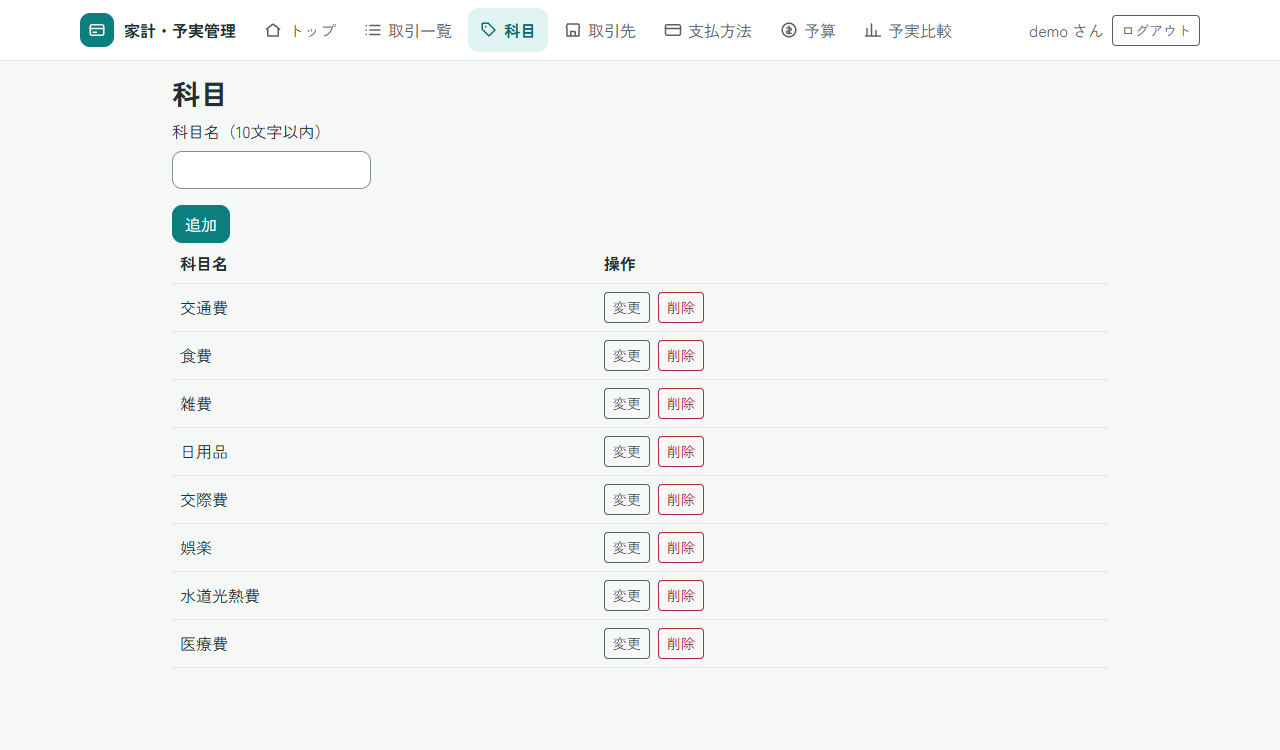
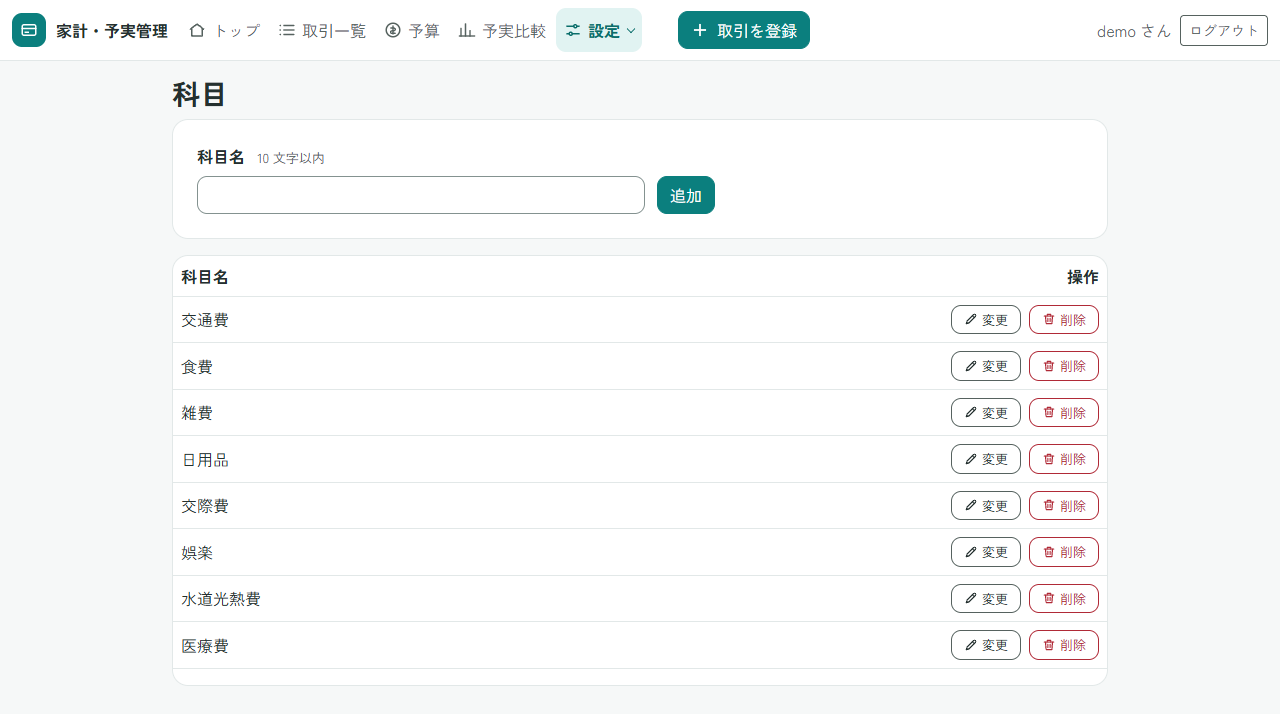
README の画像 9 枚と動画を v1.15.0 の画面で撮り直し、説明の文を今の画面に合わせる

diff --git a/docs/plans/docs-screenshots-v1.15.md b/docs/plans/docs-screenshots-v1.15.md
@@ -1,0 +1,231 @@
+# README の画面の画像とデモ動画の撮り直し（v1.15.0 の画面に合わせる）
+
+全体の位置づけは [実行計画書](execution-plan.md) を見てください。この文書は、README の**画面の画像 9 枚**と**デモ動画（自動予算）**を、`v1.15.0`〔issue 029 まで〕の画面に合わせて撮り直し、README の文を今の画面に合わせるための手順書です。前回は [docs-screenshots-v1.6.md](docs-screenshots-v1.6.md)〔v1.6.0。8 枚と、取引を登録する動画〕。**この作業は文書と画像だけで、アプリのコードは変えません。**
+
+> **⚠ 大事：今週のデータは、2026年11月21日（土）までしか「今週」に入りません。**
+> 5 章で足す 6 件は、トップの「今週」〔2026年11月15日（日）〜11月21日（土）〕にだけ効きます。**11月22日（日）になると「今週」は次の週になり、トップの円グラフ・今週の進み具合・グラフへのひとことが空になります**〔「今週はまだ使っていません」〕。**トップの画像〔`02-top.png`〕と動画は、11月21日までに撮ります。** それより後に撮るときは、その週の日付で 6 件を足し直します〔5.4〕。
+
+> **状態（2026年11月16日）**：◐ **8 章の手順 ①〜⑧ が済んだ**〔画像 9 枚・動画を撮り直し、README を直した〕。残りは、コミット・push・PR・`main` への取り込み〔本人〕と、9 章の「秘密情報が GitHub 上にない」の確認。
+
+- 前の作業：[issue 029](../issues/029-使い勝手の直し.md)〔`v1.15.0`。ヘッダーのメニュー 5 つ・「設定」・「予算」・「取引を登録」〕。そのほか、前回の画像〔11/9・11/12〕のあとに、issue 024〔チップ、要約カード〕・025〔取引一覧の月ごとの見出しと行のボタン、詳細ページをなくした〕・021〔お知らせ〕・028〔グラフへのひとこと〕で見た目が変わった。
+- 作業ブランチ：`docs/screenshots-v1.15`
+- **やらないこと**：アプリのコード・テストの変更。画像・動画を撮ること〔撮るのは本人〕。タグ付け。
+- 秘密情報：パスワード・接続先の値は、どこにも書かない。**パスワードの入力は、画像にも動画にも写さない**。
+- 書き分け：**「計算。画面で確かめる」**と書いた数字は、手順書を書いたときに、データの表から手で計算した見込み〔DB は見ていない〕。撮る前に、画面の数字と比べる。
+
+**あなたの決定（2026年11月16日）**
+
+| 番号 | 決まったこと |
+|---|---|
+| 1 | 今週の取引は 6 科目 6 件〔5.1 の表〕。交際費の摘要は「差し入れ」〔取引先がコンビニなので〕 |
+| 2 | 2026 年冬の予算は、**A：画面で 8 科目すべて 0 円にして保存**〔SQL は使わない〕 |
+| 3 | 今の動画の台本は文書になかったので、この手順書に書き起こす〔4 章〕 |
+| 4 | 手順書の名前は `docs-screenshots-v1.15.md`〔この文書〕 |
+
+## 1. README に今入っている画像（9 枚）と動画
+
+置き場所は、すべて `docs/images/`〔PNG。`.gitattributes` で `docs/images/*.png binary`〕。
+
+| # | ファイル名 | 大きさ〔幅 × 高さ、KB〕 | 撮った日 | README の場所 |
+|---|---|---|---|---|
+| 1 | `01-login.png` | 1440 × 900、109 KB | 2026年11月12日 | 「画面の紹介」の**ログイン**〔63 行目〕 |
+| 2 | `02-top.png` | 1440 × 1232、293 KB | 2026年11月12日 | 「画面の紹介」の先頭〔54 行目〕 |
+| 3 | `03-transactions.png` | 1280 × 900、200 KB | 2026年11月9日 | **取引一覧**〔67 行目〕 |
+| 4 | `04-transaction-error.png` | 1280 × 750、121 KB | 2026年11月9日 | **取引の登録（入力エラー）**〔71 行目〕 |
+| 5 | `05-categories.png` | 1280 × 750、77 KB | 2026年11月9日 | **科目**〔77 行目〕 |
+| 6 | `06-budgets.png` | 1440 × 1200、118 KB | 2026年11月12日 | **予算設定**〔81 行目〕 |
+| 7 | `07-comparison.png` | 1440 × 1200、207 KB | 2026年11月12日 | 「目玉の機能」の**着地見込み**〔39 行目〕 |
+| 8 | `08-comparison-unset.png` | 1280 × 780、101 KB | 2026年11月9日 | **予実比較（予算が未設定の季節）**〔85 行目〕 |
+| 9 | `09-auto-budget.png` | 1440 × 1200、231 KB | 2026年11月12日 | 「目玉の機能」の**自動予算**〔29 行目〕 |
+
+- README での表示は、9 枚とも `width="640"`。
+- **幅が 1440 と 1280 で分かれている**〔11/12 に撮った 5 枚が 1440、11/9 の 4 枚が 1280〕。今回は、**9 枚とも 1280 にそろえる**〔7 章の Q115-1〕。
+- **動画**：README の 9 行目〔GitHub にアップロードした動画の URL。リポジトリの中にファイルはない〕と、11 行目の説明「デモ動画（約 35 秒）：トップから予算設定に移り、2026 年冬で「自動予算」の「1. これで OK」を押して保存します。そのあと、予実比較で今の季節（秋）の見込みを見ます。」。2026年11月12日に README に入れた〔コミット `a182dc5`〕。
+- **動画の台本と撮り直しの記録は、文書になかった**〔`a182dc5` で変わったのは README と画像だけ。計画は [issue-019-auto-budget.md](issue-019-auto-budget.md) 11 章の「自動予算の動画〔約 30 秒〕」の 1 行だけ〕。4 章に、README の 11 行目から書き起こした。
+
+## 2. 1 枚ごとの撮り方
+
+どれも **`demo` でログイン**した状態〔ログイン画面だけ、ログアウトした状態〕。データは、5 章の 6 件を足したあと。撮る日は **11月16日〜21日**〔先頭の注意〕。
+
+| # | ファイル | 撮り直す理由（ヘッダーのほか） | URL・データ・操作 |
+|---|---|---|---|
+| 1 | `01-login.png` | ヘッダーは変わっていない〔ロゴだけ。`fragments/public-header.html`〕。025 で、上の空き、チェックの 1 つ目、チップを入れた説明の文が変わった〔`fragments/auth-intro.html` 14〜18 行〕 | `/login` を直接開く。欄は空。メッセージなし |
+| 2 | `02-top.png` | 024〔チップ、カード〕、021〔凡例の言葉〕、028〔グラフへのひとこと〕、029〔メニュー 5 つ、「取引を登録」〕。今週が空なので、データを足す必要がある | `/`。5 章の 6 件を足したあと。ページ全体 |
+| 3 | `03-transactions.png` | 025〔月ごとの見出し、編集・複写・削除のボタン、詳細ページをなくした〕、029〔本文の「＋ 取引を登録」をなくした〕 | `/transactions`。約 105 件〔計算。画面で確かめる〕。先頭は 11 月の見出しと、11/16・11/15 の行 |
+| 4 | `04-transaction-error.png` | 025〔金額の欄 20px、ボタンの 2 つのまとまり〕、029〔金額をクリアのボタン、取引先・支払方法の並び、ヘッダーの「取引を登録」に今の印〕 | `/transactions/new`。日付 `2026-11-02`、金額 **`abc`**、科目 食費、取引先 コンビニ、支払方法 現金、摘要 `買い出し` を入れて「保存」→ **エラーが出たその画面**〔登録はされない〕 |
+| 5 | `05-categories.png` | 025〔白いカード、アイコン付きの「変更」「削除」〕、029〔メニューの「設定」に今の印〕 | `/categories`。8 科目 |
+| 6 | `06-budgets.png` | 024〔予算設定の仕上げ〕、025〔季節の前後のリンク〕、029〔メニューの「予算」〕 | `/budgets?year=2026&season=autumn` |
+| 7 | `07-comparison.png`（目玉） | 024〔「今の状況」の列のチップ、要約カード〕、025〔行の色〕 | `/comparison?year=2026&season=autumn`。要約カードから表の下の凡例まで、1 画面に収める |
+| 8 | `08-comparison-unset.png` | 024〔状況の列〕、ヘッダー。夏は issue 019 の過去のデータで 6 科目に実績がある〔11/9 に撮ったときは食費だけ〕 | `/comparison?year=2026&season=summer` |
+| 9 | `09-auto-budget.png`（目玉） | 024〔案のもとにした数字の印、カード〕、021〔お知らせ〕 | 撮る前に、冬の予算を 0 円にする〔4.3〕。`/budgets?year=2026&season=winter` を開いて「自動予算」を押す〔`auto=1`。「1. これで OK」が選ばれた状態〕。**保存しない** |
+
+## 3. 撮りそろえる決まり
+
+前回〔[docs-screenshots-v1.6.md](docs-screenshots-v1.6.md) 3 章〕と同じ〔幅も前回と同じ 1280。7 章の Q115-1〕。
+
+| 決めること | 決まり |
+|---|---|
+| ブラウザ | Chrome または Edge〔PC〕。拡張機能の表示・ブックマーク・通知が出ない状態 |
+| 幅 | 開発者ツール〔`F12`〕のデバイスツールバーで「Responsive」、幅 **1280**〔Q115-1〕、デバイスピクセル比 1.0 |
+| 拡大率 | 100%〔`Ctrl+0`〕 |
+| 撮り方 | 開発者ツールの「Capture full size screenshot」〔ページ全体。アドレス欄・タブは写らない〕 |
+| ファイル名 | 今と同じ 9 つの名前〔`01-login.png`〜`09-auto-budget.png`〕で上書きする |
+| 形式・大きさ | PNG。1 枚 300KB 前後まで。トップ・予実比較・自動予算は 400KB まで |
+| README の表示 | 9 枚とも `width="640"`〔今のまま〕 |
+| 写り込みの確認 | 前回と同じ〔本人が実際の大きさで見る → Claude Code が 1 枚ずつ開いて報告。ユーザー名は `demo` だけ。パスワード・IP・PC 名・パス・接続先・通知・開発者ツールが写らない。ログイン画面は欄が空。PNG のメタデータがない〕 |
+
+## 4. デモ動画の台本（自動予算）
+
+### 4.1 今の動画〔README の 11 行目から書き起こした〕
+
+トップ → 予算設定 → 2026 年冬 → 「自動予算」 → 「1. これで OK」 → 「保存」 → 予実比較（秋）の見込み。約 35 秒〔2026年11月12日に撮った動画〕。**撮り直した動画は 27 秒**〔README は「約 30 秒」に直した〕。音なし。MP4〔issue 014 の決まり〕。
+
+### 4.2 台本〔今の画面で撮る〕
+
+〔録る範囲：ブラウザの中だけ。幅は画像と同じ。ログインは録り始める前に済ませる〕
+
+| # | 場面 | 操作 | 画面に出るもの | 秒 |
+|---|---|---|---|---|
+| 0 | 録る前の準備 | 冬の予算を 0 円にする〔4.3〕。`demo` でログインして、**トップを開いたところから**録り始める | — | — |
+| 1 | トップ | 数秒、画面を見せる | 2026年 秋、季節のメーター、今週の円グラフ〔5 章の 6 件〕 | 4 |
+| 2 | 予算設定へ | ヘッダーのメニューの「**予算**」〔issue 029 で「予算設定」から変わった。開くのは同じ予算設定の画面〕 | 見出し「予算設定」、2026年 秋 | 3 |
+| 3 | 冬へ | 「**次の季節 ›**」〔`fragments/season.html` 28 行〕 | 2026年 冬。8 科目とも 0 円 | 3 |
+| 4 | 自動予算 | 「**自動予算**」を押す | 案が入る。「1. これで OK」が選ばれている。上に、直前の季節〔秋〕の予算と実績、傾向の文。表に根拠と、案のもとにした数字の印〔薄いターコイズの背景〕 | 8 |
+| 5 | 保存 | 「**保存**」→ 確認の窓「2026年 冬の予算を保存します（合計 ○ 円）。よろしいですか？」で OK | 「保存しました」のお知らせ〔issue 021 の形〕 | 6 |
+| 6 | 予実比較へ | ヘッダーのメニューの「**予実比較**」 | 2026年 秋。要約カードの季節の終わりの見込み、表の見込みと見込みとの差 | 8 |
+| 7 | 終わり | — | — | 1 |
+
+- **今の画面とのちがい**：変わったのは、2 の**メニューの文字**〔「予算設定」→「予算」〕だけ。ヘッダーの「取引を登録」と「設定」は使わない。README の 11 行目の文は、「メニューの『予算』で」を足す案がある〔6 章〕。
+- **案の数字は、今週の 6 件を足しても、ほとんど変わらない見込み**〔計算。画面で確かめる〕：6 科目は過去 3 年の冬の中央値で決まり、増える・減る傾向も、終わった季節だけから計算する。医療費は秋のペースで、1,000 円単位の切り上げで 1,000 円のまま。娯楽は「今の値のまま」で 0 円。変わるのは、表の「直前の季節〔秋〕の実績」の列と、上の文の「（11/○ まで）」の日付。
+- 動画は、1 コマずつ〔数秒おきに書き出した画像で〕写り込みを確かめる〔issue 014 の決まり。Claude Code は動画を直接は見られない〕。
+
+### 4.3 撮る前と撮ったあとに、2026 年冬の予算を 0 円にする〔あなたの決定 2：A〕
+
+1. `/budgets?year=2026&season=winter` を開く。
+2. 8 科目すべての欄を `0` にする。
+3. 「保存」→ 確認の窓で OK →「保存しました」。
+
+- **撮る前**：動画の 3 で、8 科目とも 0 円から始めるため。`09-auto-budget.png` を撮る前にも行う〔前に撮ったときに保存した冬の予算が残っているかもしれないため〕。
+- **撮ったあと**：動画で保存した冬の予算を、0 円に戻す。撮り直すたびに同じことをする。
+- **注意**：0 円で保存すると、予算の行は 0 円で残る。そのため、科目の横の「**未保存**」のチップは出ない〔`budgets/form.html` 108 行。チップは、行がないときだけ〕。行を消して「未保存」に戻すには SQL が要る〔B の案。今回は使わない〕。
+- 自動予算の案は、今の値が 0 円でも、行がなくても、同じになる見込み〔娯楽の「今の値のまま」も 0 円〕。
+
+## 5. demo のデータ：今週の 6 件
+
+### 5.1 足すデータ〔あなたが画面から登録する〕
+
+11/8・11/9 の取引〔前回の撮り直しで足したもの〕は、そのまま残す。
+
+| 日付 | 科目 | 取引先 | 支払方法 | 金額 | 摘要 | 週の予算 | 今週の判定 |
+|---|---|---|---|---|---|---|---|
+| 11/15 | 食費 | コンビニ | 現金 | 3,600 | 買い出し | 3,100 | 赤〔500 円超え〕 |
+| 11/15 | 雑費 | Amazon | クレジットカード | 1,800 | 小物 | 2,400 | 予算内 |
+| 11/16 | 水道光熱費 | 電力会社 | クレジットカード | 1,500 | 電気代 | 2,800 | 予算内 |
+| 11/16 | 日用品 | Amazon | クレジットカード | 1,000 | 洗剤 | 1,600 | 予算内 |
+| 11/16 | 交通費 | ガソリンスタンド | 現金 | 600 | ガソリン | 2,000 | 青 |
+| 11/16 | 交際費 | コンビニ | 現金 | 300 | 差し入れ | 1,200 | 青 |
+
+- 週の予算：秋の予算 ÷ 13 を 100 円単位で切り上げ〔設計書 5.11〕。合計 13,800 円。
+- 6 件の合計 **8,800 円**〔今週の合計〕。
+
+### 5.2 足したあとの見込み〔計算。画面で確かめる〕
+
+- **前提**：今の DB が、11/12 に撮ったときと同じ〔2026年秋の合計 **107,800 円**〕。DB は見ていないので、手順 ① で確かめる。
+- 取引の件数：**約 105 件**〔99 件 ＋ 6 件。99 件は、16 件に issue 019 の過去のデータ 83 件を足した数〕。
+- 2026年秋の合計：**116,600 円 / 予算 175,000 円**〔約 67%〕。
+
+**予実比較〔2026年秋〕のチップ**
+
+| 科目 | 予算 | 実績 | チップ | 理由 |
+|---|---|---|---|---|
+| 交通費 | 25,000 | 6,200 | 使い残し | 6,200 × 3 ＝ 18,600 ≦ 25,000 |
+| 食費 | 40,000 | 52,800 | 予算超え | 実績が予算を超えている |
+| 雑費 | 30,000 | 23,800 | 予算内 | 23,800 × 3 ＞ 30,000、かつ 23,800 ≦ 30,000 |
+| 日用品 | 20,000 | 16,200 | 予算内 | 16,200 × 3 ＞ 20,000、かつ ≦ 20,000 |
+| 交際費 | 15,000 | 300 | 使い残し | 300 × 3 ＝ 900 ≦ 15,000 |
+| 娯楽 | 0 | 0 | なし | 予算 0 円・実績 0 円 |
+| 水道光熱費 | 36,000 | 17,000 | 予算内 | 17,000 × 3 ＝ 51,000 ＞ 36,000、かつ ≦ 36,000 |
+| 医療費 | 9,000 | 300 | 使い残し | 300 × 3 ≦ 9,000 |
+| **合計** | 175,000 | 116,600 | 予算内 | 116,600 × 3 ＝ 349,800 ＞ 175,000、かつ ≦ 175,000 |
+
+- チップの分かれ方は、今の画像と同じ〔予算超え・使い残し・予算内・なしが 1 画面にそろう〕。
+- **季節の終わりの見込み**〔要約カード。今の README の説明では約 136,000 円〕は変わる。式が細かいので計算していない。**画面で読む**〔README の 39 行目の数字に使う〕。
+
+### 5.3 トップの見込み〔計算。画面で確かめる〕
+
+- 見出し：「今日は 11月16日（季節の終わりまで、あと 15 日）」〔撮る日で変わる〕。
+- 季節のメーター：116,600 円 / 予算 175,000 円。
+- **今週の円グラフ**：合計 8,800 円、6 科目。多い順に、食費 → 雑費 → 水道光熱費 → **日用品〔4 番の色 `--hb-chart-4`〕→ 交通費〔5 番 `--hb-chart-5`〕** → 交際費〔6 番目は灰色 `--hb-chart-6`〕。6 科目ちょうどなので「その他」は出ない。
+- 今週の進み具合：食費は赤、雑費・水道光熱費・日用品は予算内、交通費・交際費は青。医療費・娯楽は 0 円。合計 8,800 / 13,800 円。
+- グラフへのひとこと：issue 028 の 7 つの型から選ばれる〔どれが出るかは日で変わる〕。
+
+### 5.4 11月22日より後に撮るとき
+
+5.1 の 6 件の日付を、**その週の日曜と月曜**に直して足し直す〔日付は、「今日」を含む週の中、かつ季節の中。12月になると「今の季節」は冬になるので、秋の画面は URL の `year`・`season` で開く〕。前の週の 6 件は消さなくてよい〔秋の合計は増える。5.2 の数字は、そのとき計算し直す〕。
+
+### 5.5 demo のデータを書いてある文書
+
+- [phase-9-readme.md](phase-9-readme.md) 3.3：手順 ①〜⑥〔⑤・⑥ は前回の撮り直しで足した〕。今回の 6 件は、表を写さず「手順 ⑦」の 1 行だけを足した〔7 章の Q115-2。中身はこの手順書の 5.1〕。
+- [docs/demo-data/](../demo-data/)：issue 019 の過去のデータ〔2023年秋〜2026年夏の 83 件〕の SQL。今回は使わない。
+
+## 6. README の文の直し〔撮り終えてから〕
+
+| 行 | 今の文（要点） | 今の画面〔根拠〕 | 直す案 |
+|---|---|---|---|
+| 11 | 「トップから予算設定に移り、2026 年冬で…」 | メニューの文字は「予算」〔`fragments/common.html`〕。冬へは「次の季節 ›」〔`fragments/season.html` 28 行〕 | 「トップからメニューの『予算』で予算設定に移り、2026 年冬で…」。そのほかは今のまま |
+| 29〔09〕 | 「案のもとにした数字にはターコイズの下線」 | 薄いターコイズの背景と太字〔`style.css` の `.budget-table td.auto-source-cell > span`。凡例は `budgets/form.html` 165 行〕 | 「…には薄いターコイズの背景が付く」。「6% 多く」は撮った画面に合わせる |
+| 39〔07〕 | 「6 列」「食費は赤、…💮 と薄いアプリコットの背景」「約 136,000円」 | 7 列〔科目／今の状況／予算／実績／残り／見込み／見込みとの差。`comparison/index.html` 60〜70 行〕。行の背景はなく、チップ〔同 54 行、`fragments/chip.html` 12 行〕 | 「表は 7 列。『今の状況』の列に、食費は『予算超え』、交通費・交際費・医療費は『使い残し』、雑費・日用品・水道光熱費と合計は『予算内』（花のアイコン）のチップ。娯楽はチップなし。食費の見込みとの差には『超える見込み』」。見込みの額は撮った画面の数字 |
+| 45 | 「きょうのひとこと（七十二候など）」 | グラフへのひとこともある〔issue 028〕 | 「きょうのひとこと（七十二候などと、今週の数字から作るひとこと）」 |
+| 46 | 「金額を足すボタンと税込のボタン」 | ヘッダーの「取引を登録」、金額をクリア、取引先・支払方法のよく使う順〔issue 029〕 | 「どの画面からも、ヘッダーの『取引を登録』で登録できます。金額を足す・税込にする・クリアのボタン。取引先と支払方法は、よく使う順に並びます」 |
+| 47 | 「科目・取引先・支払方法：追加・変更・削除」 | メニューの「設定」の中〔issue 029〕 | 「…（メニューの『設定』から）：追加・変更・削除」 |
+| 63〔01〕 | 「💮 の説明」 | 説明の文の中のチップ 3 つと、チェックの 3 行〔`fragments/auth-intro.html` 14〜18 行〕 | 「左に、アプリの紹介（季節ごとの予算と実績、『予算超え』『使い残し』『予算内』のチップの説明、チェックの 3 行）」 |
+| 67〔03〕 | 「16 件を表示しています」「『詳細』のリンク」 | 詳細ページはない〔issue 025〕。月ごとの見出しと、行ごとの編集・複写・削除 | 「『日付の新しい順に、○ 件を表示しています。』の下に、月ごとの見出し（年月と、件数・合計）。各行に編集・複写・削除のボタン」〔○ は撮った画面の数字〕 |
+
+- **合っていて、直さなくてよい所**：35・37 行〔「超える見込み」、3 つのチップの言葉〕、54 行、71 行〔エラーの文「金額は整数で入力してください」〕、77 行、81 行、85 行〔未設定のときの差額は空欄〕。
+- 任意：81 行に「‹ 前の季節」「次の季節 ›」を書き足す。71 行の「金額の入力を助けるボタン」を「足す・税込にする・金額をクリアのボタン」にする。
+
+## 7. 決まっていない点
+
+| 番号 | 決めること | おすすめ |
+|---|---|---|
+| Q115-1 | 画像の幅〔今は 1440 が 5 枚、1280 が 4 枚〕 | **決まった：1280 にそろえる**〔2026年11月16日・本人。おすすめは 1440 だった〕。理由：README では幅 640 で出すので、1440 だと文字が約 44% に縮んで読みにくい〔1280 なら 50%〕。issue 029 のあと、ヘッダーは約 1,022px から 1 段なので〔計算〕、1280 でも 1 段に収まる |
+| Q115-2 | 今回の 6 件を、[phase-9-readme.md](phase-9-readme.md) 3.3 に「手順 ⑦」として足すか | **決まった：表は写さず、1 行だけ足す**〔2026年11月16日・本人〕。「手順 ⑦：v1.15 の撮り直しで、今週の 6 件を足した。中身は docs-screenshots-v1.15.md の 5.1」。理由：同じデータを 2 か所に書かないため。**足した**〔2026年11月16日〕 |
+| リンク | この手順書へのリンクをどこに足すか | **決まった**〔2026年11月16日・本人〕：[phase-9-readme.md](phase-9-readme.md) 3.2 の先頭と、[issue 014](../issues/014-READMEにデモ動画を付ける.md) の末尾に 1 行ずつ**足した**。[実行計画書](execution-plan.md)には足さない〔進捗表に、前回の撮り直しの行も、019〜029 の行もないため〕 |
+
+## 8. 手順
+
+> **進め方**：画像と動画を撮るのは、あなた。Claude Code は、写り込みの確認と、README・文書の直しを行う〔頼まれてから〕。コミット・push・PR・`main` への取り込みも、あなたが行う。**1 つの手順が終わったら止まって、確認を待つ。**
+
+1. [x] **足す前に、予実比較〔`/comparison?year=2026&season=autumn`〕の合計が 107,800 円か確かめる**〔違えば、数字を教えてください。5.2 の見込みを直す〕
+2. [x] **今週の 6 件を足す**〔5.1。画面から登録〕
+3. [x] **予実比較とトップが見込みどおりか確かめる**〔5.2・5.3。秋の合計 116,600 円、チップの分かれ方、今週の合計 8,800 円、円グラフの 6 科目と色の順〕。食い違いがあれば、数字を教えてください
+4. [x] **画像 9 枚を撮る**〔2・3 章。幅 1280〕。`09-auto-budget.png` の前に、冬の予算を 0 円にする〔4.3〕
+5. [x] **写り込みの確認**〔Claude Code が 1 枚ずつ開いて確かめる〕
+6. [x] **冬の予算を 0 円 → 動画を撮る → 冬の予算を 0 円に戻す**〔4 章〕。1 コマずつ写り込みを確認〔実際は、本人が通して見て確かめた。10 章の記録〕。GitHub にアップロードして、URL を README に入れる
+7. [x] **README を直す**〔6 章。画像の説明、動画の説明、そのほかの機能〕
+8. [x] **記録を書く**〔この手順書の 10 章〕
+
+## 9. 完了条件
+
+- [x] `docs/images/` の 9 枚が、`v1.15.0` の画面〔メニュー 5 つ、「取引を登録」〕で撮り直されている。幅は 9 枚とも 1280〔Q115-1〕。大きさが 3 章のとおり
+- [x] 写り込みがない〔ユーザー名は `demo` だけ。動画は、本人が通して見て確かめた〕
+- [x] README の画像の説明・動画の説明・「そのほかの機能」が、今の画面と合っている〔6 章〕
+- [x] 2026 年冬の予算が、撮ったあと 0 円に戻っている
+- [x] アプリのコードを変えていない〔`src/` の差分が 0 件〕
+- [ ] 秘密情報が GitHub 上にない
+
+## 10. 次への引き継ぎと記録
+
+- 画面を変えたら、画像と動画を**撮り直す**〔issue 014 の「古くならないようにする」〕。
+- **週が変わると、今週のデータは空になる**〔先頭の注意。5.4〕。トップを見せる・撮るときは、その週の取引を足す。
+- **動画の台本は、この手順書の 4 章**〔次に撮り直すときも、ここを使う〕。
+
+**記録**
+
+- 2026年11月16日：調べものと案を報告。決めてほしいこと 1〜4 が決まった〔上の「あなたの決定」〕。この手順書を書いた。
+- 2026年11月16日：Q115-1〔幅 1280〕・Q115-2〔3.3 に 1 行だけ〕・リンクの足し方が決まった〔7 章〕。phase-9-readme.md〔3.2 の先頭と 3.3〕と issue 014〔末尾〕に 1 行ずつ足した。
+- 2026年11月16日：**撮り直しが済んだ**〔本人〕。
+  - **今週の 6 件**を足した〔5.1〕。予実比較〔2026年秋〕の合計 **116,600 円**、トップの今週の合計 **8,800 円**を、本人が画面で確かめた〔5.2・5.3 の見込みのとおり〕。
+  - **画像 9 枚**：幅はすべて **1280**、大きさ 84〜281KB、メタデータなし。写り込みなし〔ユーザー名は `demo` だけ。ログインの欄は空で、メッセージなし〕。相談役の Claude が 9 枚を開いて確かめた。`04-transaction-error.png` は、1 回目の入力が手順書と違った〔摘要「テスト」など〕ので、手順書のとおりに撮り直した。
+  - **動画**：4.2 の台本で撮った〔27 秒〕。撮る前と撮ったあとに、冬の予算を 0 円にして保存した〔4.3〕。写り込みは、本人が通して見て確かめた〔1 コマずつの確認ではない〕。新しい URL を README の 9 行目に入れた。
+- 2026年11月16日：**README を直した**〔Claude Code。6 章の表のとおり〕。9 行目の動画の URL、11 行目〔「約 30 秒」、「メニューの『予算』で」〕、29・39 行目〔09・07 の説明〕、45〜47 行目〔そのほかの機能〕、54・63・67・71・77・81・85 行目〔画像の説明〕。数字は、撮った画像に写っている数字にした〔見込み 約 138,700 円、105 件、11 月の「14 件・合計 38,600円」、「6% 多く」、案の合計 141,000 円、夏の合計 117,800〕。画像の `src` と `width="640"` は変えていない。アプリのコードとテストの件数〔2,629 件〕は変えていない。

diff --git a/docs/issues/014-READMEにデモ動画を付ける.md b/docs/issues/014-READMEにデモ動画を付ける.md
@@ -58,3 +58,5 @@ README に、30 秒ほどのデモ動画（または GIF）を付けたい、と
 - **期限**：今週の 4 件は、**11月14日（土）までにしか「今週」に入らない**。トップの画像・動画は、11月14日までに撮る。
 
 **動画の撮り直し（2026年11月9日）**：台本 A〔トップから録り始める。約 40 秒〕で撮り直し、README の動画の URL と説明文を直した。詳しくは [docs-screenshots-v1.6.md](../plans/docs-screenshots-v1.6.md)。
+
+**動画の撮り直し（v1.15。自動予算）**：台本は [docs-screenshots-v1.15.md](../plans/docs-screenshots-v1.15.md) の 4 章〔2026年11月12日に撮った今の動画の台本は文書になかったので、README の説明から書き起こした〕。
